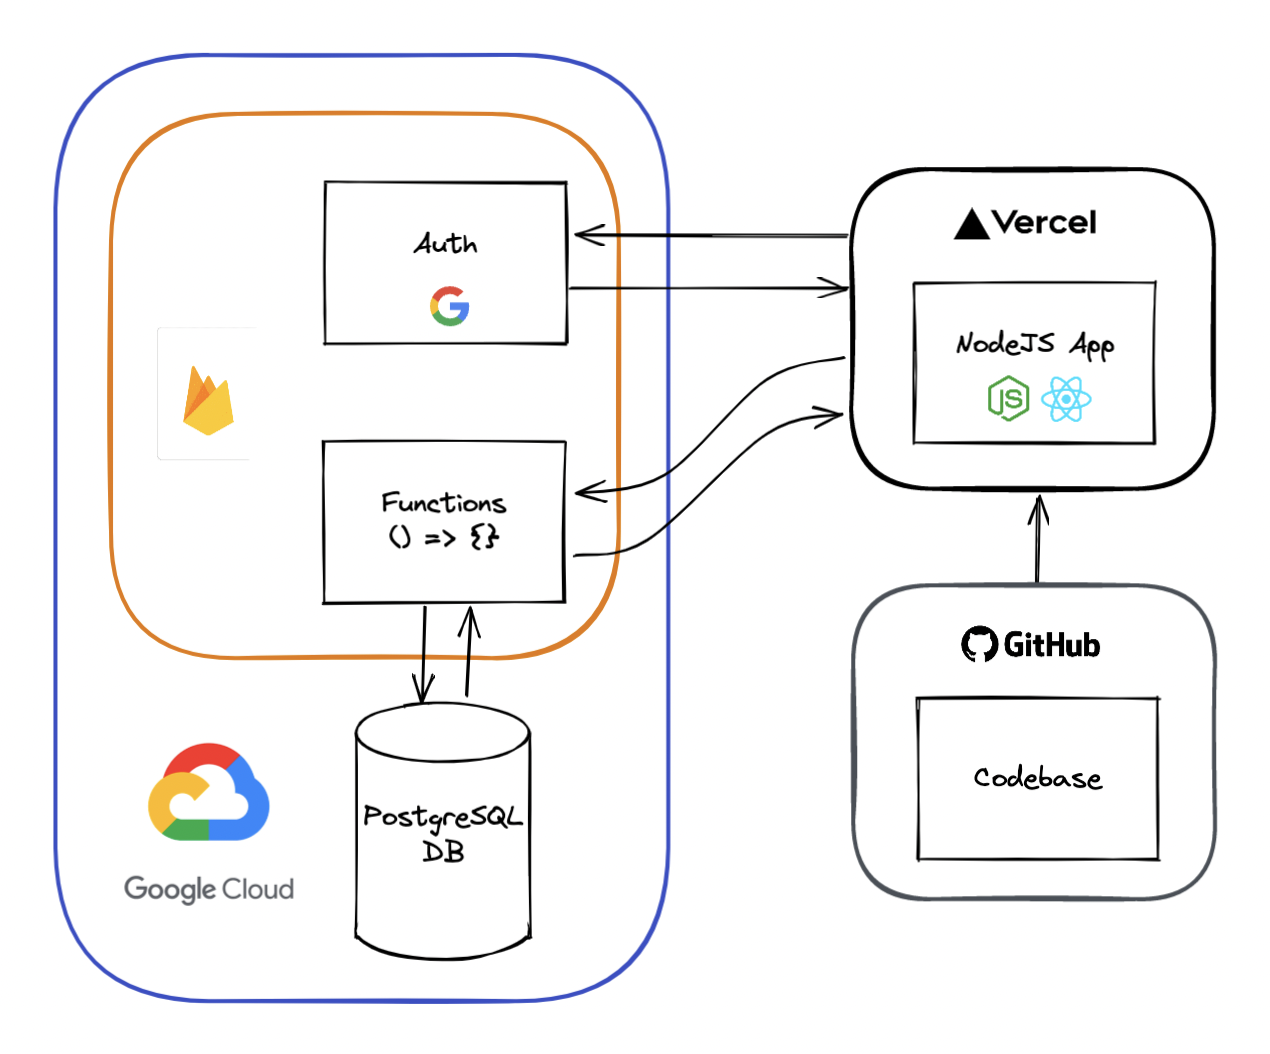
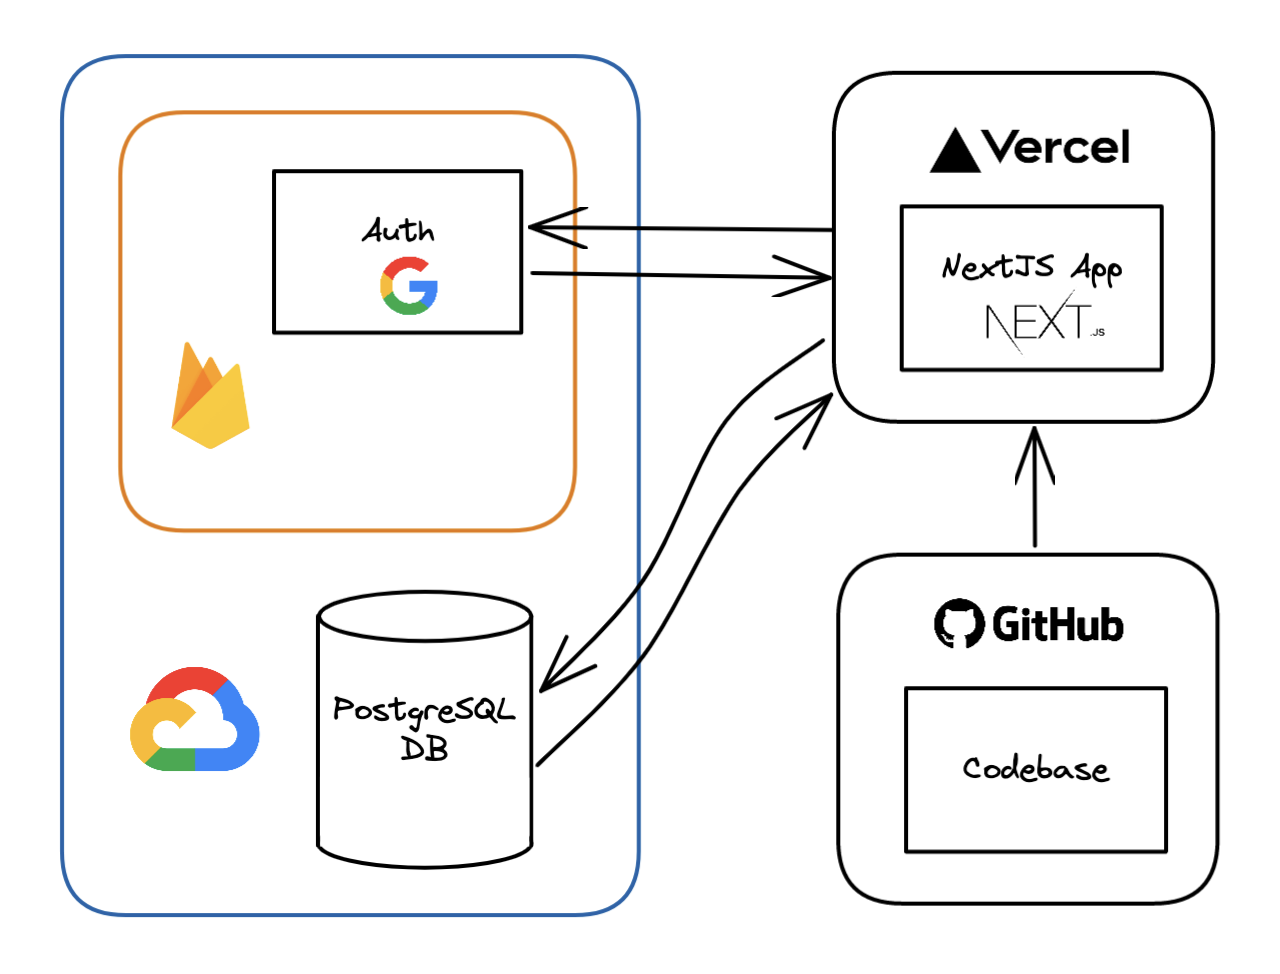
update readme

diff --git a/README.md b/README.md
@@ -1,12 +1,27 @@
-# Create T3 App
+# Star Health
+
+https://starhealth.io/
+
+Star Health is a public data analytics platform focused on healthcare. It strives to make public medical data more accessible to the general public.
+
+![screenshot](public/images/ScreenGrabHomepage.png)
+
+
+
+## Architecture
+
+The platform consists of:
+- [Next.js](https://nextjs.org/) app housed on [GitHub](https://github.com/nedink/star-health-t3) and hosted on [Vercel](https://vercel.com/), described [below](#app)
+- [PostgreSQL](https://www.postgresql.org/) [database](https://console.cloud.google.com/sql/instances/starhealth/overview?project=starhealth-io)
+- [Google Authentication](https://firebase.google.com/docs/auth)
+- [Google Cloud Platform project](https://console.cloud.google.com/welcome?project=starhealth-io)
+- [Firebase project](https://console.firebase.google.com/project/starhealth-io/overview)
+
+[Jump to current architecture diagram](#current-architecture)
+
+## App
 
 This is a [T3 Stack](https://create.t3.gg/) project bootstrapped with `npx create-t3-app@latest`.
-
-## What's next? How do I make an app with this?
-
-We try to keep this project as simple as possible, so you can start with just the scaffolding we set up for you, and add additional things later when they become necessary.
-
-If you are not familiar with the different technologies used in this project, please refer to the respective docs. If you still are in the wind, please join our [Discord](https://t3.gg/discord) and ask for help.
 
 - [Next.js](https://nextjs.org)
 - [NextAuth.js](https://next-auth.js.org)
@@ -14,15 +29,132 @@ If you are not familiar with the different technologies used in this project, pl
 - [Tailwind CSS](https://tailwindcss.com)
 - [tRPC](https://trpc.io)
 
-## Learn More
-
 To learn more about the [T3 Stack](https://create.t3.gg/), take a look at the following resources:
 
 - [Documentation](https://create.t3.gg/)
 - [Learn the T3 Stack](https://create.t3.gg/en/faq#what-learning-resources-are-currently-available) — Check out these awesome tutorials
 
-You can check out the [create-t3-app GitHub repository](https://github.com/t3-oss/create-t3-app) — your feedback and contributions are welcome!
+## Quick Start
 
-## How do I deploy this?
+>This project requires [Node.js](https://nodejs.org/en/) and [Git](https://git-scm.com/). Make sure they are installed in your local development environment. You can check that they are by running:
+>```
+>git --version
+>
+>node --version
+>```
 
-Follow our deployment guides for [Vercel](https://create.t3.gg/en/deployment/vercel) and [Docker](https://create.t3.gg/en/deployment/docker) for more information.
+1. Clone the project and navigate into it.
+```
+git clone https://github.com/nedink/star-health-t3.git
+
+cd star-health-t3/
+```
+
+1. Install packages.
+```
+npm ci
+```
+
+1. Run in development mode.
+```
+npm run dev
+```
+
+1. Open in browser at http://localhost:3000/.
+```
+> star-health-t3@0.1.0 dev
+> next dev
+
+ready - started server on 0.0.0.0:3000, url: http://localhost:3000
+```
+
+
+## Development
+
+Check the [technology stack](#app) listed above and review the documentation for these as needed.
+
+### File Structure
+```
+root
+|_ prisma/
+|  |_ schema.prisma
+|
+|_ src/
+|  |_ assets/
+|  |_ components/
+|  |_ env/
+|  |_ pages/
+|  |  |_ DoctorDetials/, DoctorReviews/...
+|  |_ server/
+|  |  |_ common/, db/, trpc/router/ <- db.ts is in here, which defines trpc queries that use Prisma to CRUD the database. This needs to be modified for most new features.
+|  |_ styles/
+|  |_ types/
+|  |_ utils/
+|  |_ ...
+|
+|_ .env <- This contains secrets/keys, and is not tracked by Git. Ask a teammate to send you a copy of theirs.
+|_ package.json
+|_ ...config files (Next.js, TypeScript, Tailwind, etc.)
+```
+
+### Rough Developer Workflow
+
+1. For any significant change, create a new branch with an appropriate name, i.e. `hotfix/doctor-page`. Commit messages should be short and descriptive, i.e. `fix dropdown behavior`.
+
+1. Before committing, review your changes. Remove temporary code you may have written for debugging purposes (like print statements), and try to avoid comitting large sections of reformatted/whitespace-only changes on pre-existing code, unless that is the nature of your update. 
+
+    > Cleaning up and reformatting is important for a good developer experience however, so feel free to take a pass at reformatting between features or fixes!
+
+1. After you commit, watch for the result of the build process for the `preview` deployment in Vercel. If the build fails, review the log output and debug until the build is successful. 
+
+1. Open a [pull request](https://github.com/nedink/star-health-t3/pulls) to `main` and request review from a teammate.
+
+1. On merges/changes to `main`, the app will be deployed to `production`. Make sure the build is successful here as well.
+    > Unless otherwise instructed, you are responsible for seeing your changes through to production. Likewise, your team is responsible for reviewing your changes and helping to move them forward.
+    >
+    >This means that you might have a PR open and waiting for review while you continue to work on other features in parallel, but don't forget about it!
+
+The steps described above cover _most_ cases for implementing code changes. However, some steps may be expedited or skipped with permission from the team or leadership. Ultimately, these steps are meant to smooth and add consistency to the development process, not hinder it.
+
+
+## Migration from GCP
+
+The goal of this effort is to move out of GCP in favor of more modular, light-weight solutions like GitHub and Vercel.
+
+Initially, the codebase, database, authorization, app and function deployements were built for and hosted on GCP + Firebase:
+
+### Legacy Architecture
+![Legacy Architecture](public/images/InfraDiagramLegacy.png)
+
+(Dec 19, '22) The code and app deployments have been moved to GitHub and Vercel:
+
+### Current Architecture
+
+![Current Architecture](public/images/InfraDiagramCurrent.png)
+[Jump to tech stack list](#architecture)
+
+
+## Repeatable Steps for Migrating Data - The Manual Way
+
+Steps we took to migrate the data to a new schema (as of Dec 19 '22):
+1. Update the [prisma.schema](prisma/schema.prisma) file with desired changes (add models, attributes, indexes, etc.).
+1. Create a new empty database under the [`starhealth` instance](https://console.cloud.google.com/sql/instances/starhealth/databases?project=starhealth-io)
+1. Set your `DATABASE_URL` in your local `.env` to point to the new database.
+1. At the root of the project run `npx prisma db push` to update the remote database. This adds the tables + relationships defined in the schema file. If any potential for data loss, this command will throw an error. [Documentation](https://www.prisma.io/docs/concepts/components/prisma-migrate/db-push)
+1. Download/export the data from the old database as CSV files ([pgAdmin](https://www.pgadmin.org/) among others will let you do this) - make sure that you set it to use the double-quote `"` for both the __Quote__ and __Escape__ characters in export options.
+1. Use scripts to transform this data into files that match the tables in the new schema. [Some scripts to help with this](https://github.com/nedink/csv-scripts)
+1. Copy your updated CSV files into the new database you created. For example, you can use `psql` and the `\copy` command:
+    ```
+    psql -h '[db host/IP]' -p [5432] -d dbname -U username -W
+
+    Password: (type the password)
+
+    dbname=> \copy "TableName" FROM './TableFile.csv' DELIMITER ',' CSV
+    ```
+    >^ This assumes there is no header in the file
+1. Back at the project root, run `npx prisma generate` the to regenerate the Prisma client, allowing you to make queries from within the app. (This introspects your `schema.prisma` file, it does not depend on the remote database.) [Docs,](https://www.postgresql.org/docs/current/app-psql.html) [more docs,](https://www.postgresguide.com/utilities/psql/) [tutorials](https://tomcam.github.io/postgres/)
+
+
+## Additional Resources
+
+[t3 Vercel deployment docs](https://create.t3.gg/en/deployment/vercel)
